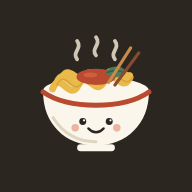
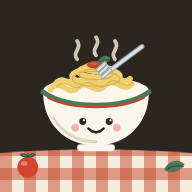
a

Changed region(s): [[0.0, 0.75, 1.0, 1.0], [0.1875, 0.2188, 0.8125, 0.5938]]

diff --git a/index.html b/index.html
@@ -12,7 +12,7 @@
 <link rel="apple-touch-icon" href="icon-192.png">
 <title>Tavola</title>
 <link rel="preconnect" href="https://fonts.googleapis.com">
-<link href="https://fonts.googleapis.com/css2?family=Work+Sans:wght@400;500;600;700&display=swap" rel="stylesheet">
+<link href="https://fonts.googleapis.com/css2?family=Work+Sans:wght@400;500;600;700&family=Marcellus&display=swap" rel="stylesheet">
 <script src="https://www.gstatic.com/firebasejs/10.7.1/firebase-app-compat.js"></script>
 <script src="https://www.gstatic.com/firebasejs/10.7.1/firebase-auth-compat.js"></script>
 <style>
@@ -41,7 +41,7 @@
   input,textarea,select{font-family:'Work Sans',sans-serif;}
 
   .app-header{background:var(--ink);color:var(--paper);padding:10px 16px 10px;position:relative;margin-bottom:0;}
-  .app-header h1{margin:0;font-size:19px;white-space:nowrap;letter-spacing:0.2px;}
+  .app-header h1{margin:0;font-family:"Marcellus",Georgia,serif;font-weight:400;letter-spacing:0.5px;font-size:28.5px;white-space:nowrap;letter-spacing:0.2px;}
   .app-header .tagline{margin:6px 0 0;font-size:13px;color:rgba(237,227,208,0.72);}
 
   main{flex:1;padding:26px 16px 16px;}
@@ -408,8 +408,8 @@
 <body>
 <div id="app">
   <header class="app-header">
-    <div class="header-right"><span class="app-version" id="app-version">v8.2</span><button type="button" class="header-btn" id="bug-header-btn" aria-label="Report a bug or idea">🐞</button></div>
-    <div class="brand"><svg viewBox="0 0 512 512"><rect width="512" height="512" rx="112" fill="#2B2620"/><g transform="translate(256 262) scale(.9) translate(-256 -256)"> <!-- steam --> <g fill="none" stroke="#EDE3D0" stroke-width="12" stroke-linecap="round" opacity=".85"> <path d="M196 132c-18-22 18-34 0-58"/> <path d="M256 120c-18-22 18-34 0-58"/> <path d="M316 132c-18-22 18-34 0-58"/> </g> <!-- bowl back rim --> <ellipse cx="256" cy="232" rx="168" ry="44" fill="#FAF6EC"/> <!-- noodle pile --> <g fill="none" stroke="#E9B949" stroke-width="22" stroke-linecap="round"> <path d="M118 226c26-62 54 44 82-12s54 44 82-12 54 44 82-12" /> <path d="M132 206c24-58 50 38 78-8s50 40 78-8 48 36 74-6"/> <path d="M150 188c22-40 44 26 70-4s44 28 70-4 40 24 58 0"/> </g> <g fill="none" stroke="#C8962A" stroke-width="5" stroke-linecap="round" opacity=".55"> <path d="M132 214c26-56 52 40 80-8s52 42 80-8 52 38 80-8"/> </g> <!-- sauce and basil --> <ellipse cx="256" cy="188" rx="62" ry="26" fill="#B94A2F"/> <ellipse cx="238" cy="182" rx="22" ry="8" fill="#D8674A" opacity=".75"/> <path d="M286 170c30-26 62-14 66 6-30 22-58 16-66-6z" fill="#4D7A5A"/> <path d="M292 174c20-8 38-8 54 2" stroke="#2F5A3C" stroke-width="4" fill="none" stroke-linecap="round"/> <!-- bowl body --> <path d="M88 236c0 100 70 170 168 170s168-70 168-170c-40 28-100 42-168 42S128 264 88 236z" fill="#FAF6EC"/> <path d="M88 236c40 28 100 42 168 42s128-14 168-42" fill="none" stroke="#B94A2F" stroke-width="16" stroke-linecap="round"/> <path d="M120 318c34 54 82 76 136 76" fill="none" stroke="#D9CDB4" stroke-width="10" stroke-linecap="round" opacity=".8"/> <!-- bowl foot --> <rect x="196" y="402" width="120" height="22" rx="11" fill="#FAF6EC"/> <!-- eyes and smile for cartoon feel --> <circle cx="214" cy="330" r="11" fill="#2B2620"/> <circle cx="298" cy="330" r="11" fill="#2B2620"/> <circle cx="218" cy="326" r="3.5" fill="#fff"/> <circle cx="302" cy="326" r="3.5" fill="#fff"/> <path d="M232 352c14 16 34 16 48 0" fill="none" stroke="#2B2620" stroke-width="8" stroke-linecap="round"/> <circle cx="190" cy="350" r="12" fill="#D8674A" opacity=".45"/> <circle cx="322" cy="350" r="12" fill="#D8674A" opacity=".45"/> <!-- chopsticks --> <g stroke-linecap="round"> <line x1="366" y1="96" x2="296" y2="206" stroke="#C98A4A" stroke-width="10"/> <line x1="392" y1="112" x2="316" y2="214" stroke="#8A4A2F" stroke-width="10"/> </g> </g></svg><h1>Tavola</h1></div>
+    <div class="header-right"><span class="app-version" id="app-version">v8.4</span><button type="button" class="header-btn" id="bug-header-btn" aria-label="Report a bug or idea">🐞</button></div>
+    <div class="brand"><svg viewBox="0 0 512 512"><rect width="512" height="512" rx="112" fill="#2B2620"/><defs><clipPath id="rr"><rect width="512" height="512" rx="112"/></clipPath> <pattern id="gh" width="64" height="64" patternUnits="userSpaceOnUse"><rect width="64" height="64" fill="#F6EEDC"/><rect width="32" height="64" fill="#C8452D" opacity=".5"/><rect width="64" height="32" fill="#C8452D" opacity=".5"/></pattern></defs><g clip-path="url(#rr)"><path d="M0 408 Q256 388 512 408 V512 H0Z" fill="url(#gh)"/><path d="M0 408 Q256 388 512 408" fill="none" stroke="#2B2620" stroke-opacity=".25" stroke-width="3"/></g><g transform="translate(256 262) scale(.9) translate(-256 -256)"> <!-- steam --> <g fill="none" stroke="#EDE3D0" stroke-width="12" stroke-linecap="round" opacity=".85"> <path d="M196 132c-18-22 18-34 0-58"/> <path d="M256 120c-18-22 18-34 0-58"/> <path d="M316 132c-18-22 18-34 0-58"/> </g> <!-- bowl back rim --> <ellipse cx="256" cy="232" rx="168" ry="44" fill="#FAF6EC"/> <!-- spaghetti pile --> <g fill="none" stroke="#F0CF6E" stroke-width="18" stroke-linecap="round"> <path d="M112 228c30-40 56 26 86-6s56 30 86-6 56 28 86-6" /> <path d="M128 210c28-34 52 22 80-6s52 26 80-6 50 22 76-4"/> <ellipse cx="256" cy="186" rx="76" ry="24"/> <ellipse cx="256" cy="172" rx="54" ry="17"/> <ellipse cx="256" cy="160" rx="32" ry="10"/> </g> <g fill="none" stroke="#C8962A" stroke-width="4" stroke-linecap="round" opacity=".5"> <ellipse cx="256" cy="194" rx="76" ry="24"/> <ellipse cx="256" cy="180" rx="54" ry="17"/> <path d="M132 218c28-30 52 24 80-4s52 28 80-4 52 24 80-4"/> </g> <!-- sauce and basil --> <ellipse cx="256" cy="150" rx="30" ry="12" fill="#B94A2F"/> <ellipse cx="248" cy="146" rx="11" ry="4" fill="#D8674A" opacity=".8"/> <path d="M262 142c8-24 32-26 40-12-10 18-30 22-40 12z" fill="#4D7A5A"/> <path d="M268 140c10-6 20-8 30-4" stroke="#2F5A3C" stroke-width="3.5" fill="none" stroke-linecap="round"/> <!-- bowl body --> <path d="M88 236c0 100 70 170 168 170s168-70 168-170c-40 28-100 42-168 42S128 264 88 236z" fill="#FAF6EC"/> <path d="M88 236c40 28 100 42 168 42s128-14 168-42" fill="none" stroke="#4D7A5A" stroke-width="16" stroke-linecap="round"/><path d="M104 254c36 20 90 30 152 30s116-10 152-30" fill="none" stroke="#C8452D" stroke-width="7" stroke-linecap="round"/> <path d="M120 318c34 54 82 76 136 76" fill="none" stroke="#D9CDB4" stroke-width="10" stroke-linecap="round" opacity=".8"/> <!-- bowl foot --> <rect x="196" y="402" width="120" height="22" rx="11" fill="#FAF6EC"/> <!-- eyes and smile for cartoon feel --> <circle cx="214" cy="330" r="11" fill="#2B2620"/> <circle cx="298" cy="330" r="11" fill="#2B2620"/> <circle cx="218" cy="326" r="3.5" fill="#fff"/> <circle cx="302" cy="326" r="3.5" fill="#fff"/> <path d="M232 352c14 16 34 16 48 0" fill="none" stroke="#2B2620" stroke-width="8" stroke-linecap="round"/> <circle cx="190" cy="350" r="12" fill="#D8674A" opacity=".45"/> <circle cx="322" cy="350" r="12" fill="#D8674A" opacity=".45"/> <!-- fork twirling the pasta --> <g stroke-linecap="round" stroke-linejoin="round" fill="none"> <line x1="402" y1="92" x2="300" y2="168" stroke="#9AA3AB" stroke-width="16"/> <line x1="402" y1="92" x2="300" y2="168" stroke="#DDE2E6" stroke-width="9"/> <g stroke="#9AA3AB" stroke-width="14"><line x1="292" y1="156" x2="270" y2="176"/><line x1="300" y1="168" x2="278" y2="188"/><line x1="284" y1="146" x2="262" y2="166"/></g> <g stroke="#DDE2E6" stroke-width="7"><line x1="292" y1="156" x2="270" y2="176"/><line x1="300" y1="168" x2="278" y2="188"/><line x1="284" y1="146" x2="262" y2="166"/></g> </g> </g><g><circle cx="74" cy="446" r="28" fill="#D2452E"/><ellipse cx="64" cy="436" rx="9" ry="6" fill="#fff" opacity=".35"/> <path d="M74 418c-4-8-14-10-20-6 6 6 12 8 20 6z M74 418c4-8 14-10 20-6-6 6-12 8-20 6z M74 418l0-10" fill="#4D7A5A" stroke="#2F5A3C" stroke-width="3" stroke-linejoin="round"/></g> <g><path d="M438 452c10-26 40-30 54-14-12 22-40 28-54 14z" fill="#4D7A5A"/><path d="M446 450c14-8 28-10 42-6" stroke="#2F5A3C" stroke-width="4" fill="none" stroke-linecap="round"/></g></svg><h1>Tavola</h1></div>
   </header>
   <main id="main"><div class="loading">Opening Tavola…</div></main>
   <nav class="tabbar">
@@ -1744,7 +1744,7 @@ async function openExportSheet(){
 }
 
 /* ---------- BUG REPORTS ---------- */
-const APP_VERSION = '8.2';
+const APP_VERSION = '8.4';
 
 function describeView(){
   if(cookIsOpen()) return 'Cooking mode';
